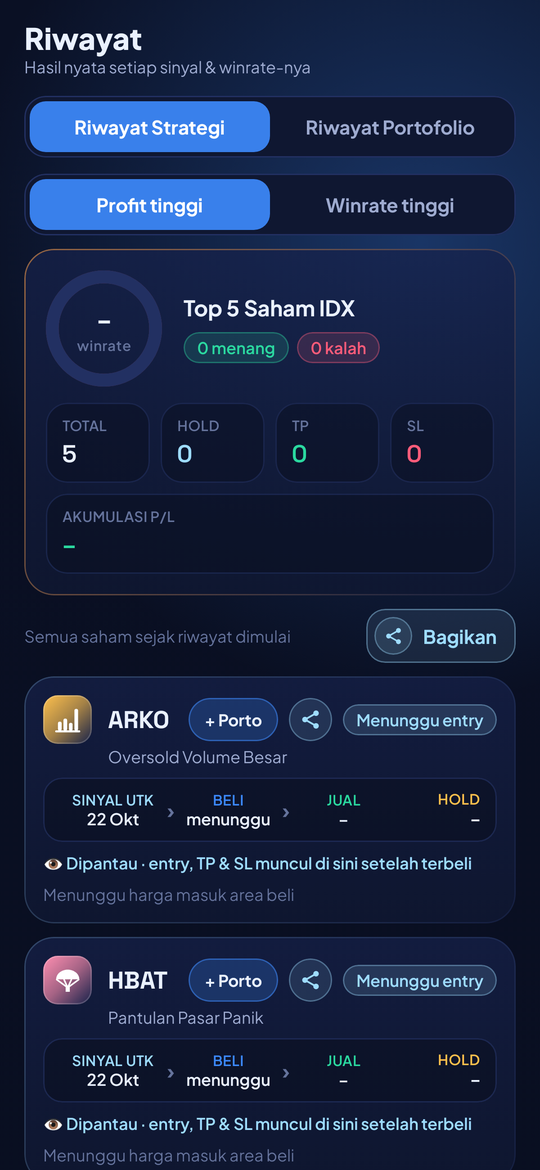
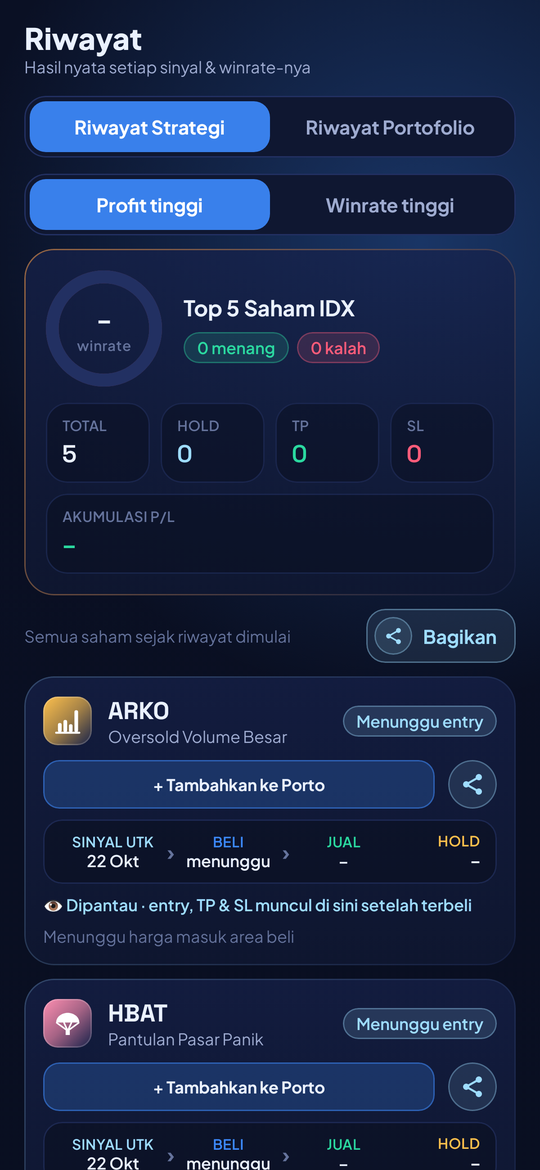
v2.2: rapikan kartu Riwayat, tombol Masukkan Porto di atas detail
Claude-Session: https://claude.ai/code/session_01PuKLHyoYSW1sPiRyMbgmbw

Changed region(s): [[0.0296, 0.5846, 0.9778, 1.0]]

diff --git a/app/src/main/java/com/lumisignal/idx/ui/screens/SignalUi.kt b/app/src/main/java/com/lumisignal/idx/ui/screens/SignalUi.kt
@@ -122,16 +122,30 @@ fun SignalRow(sig: Signal, onOpen: () -> Unit) {
     val shareCtx = androidx.compose.ui.platform.LocalContext.current
     val plan = sig.eval.plan
     GlassCard(Modifier.fillMaxWidth(), padding = 14.dp, onClick = onOpen) {
+        // Header: badge, ticker + strategy, status. Buttons get their own row so nothing is squeezed.
         Row(verticalAlignment = Alignment.CenterVertically) {
             val tag = sig.radar
             if (tag != null) RadarBadge(tag.icon, tag.color, tag.jenis, 36.dp) else StrategyBadge(sig.strategyId, 36.dp)
             Spacer(Modifier.width(12.dp))
             Column(Modifier.weight(1f)) {
-                Row(verticalAlignment = Alignment.CenterVertically) {
-                    Text(sig.symbol, style = NumberStyle.copy(fontSize = 18.sp, fontWeight = FontWeight.Bold), color = Lumi.Text)
-                    Spacer(Modifier.width(8.dp))
+                Text(sig.symbol, style = NumberStyle.copy(fontSize = 18.sp, fontWeight = FontWeight.Bold), color = Lumi.Text, maxLines = 1, softWrap = false)
+                Text(
+                    sig.radar?.name ?: Strategy.byId(sig.strategyId).title, style = MaterialTheme.typography.bodySmall, color = Lumi.TextDim,
+                    maxLines = 1, overflow = TextOverflow.Ellipsis,
+                )
+            }
+            Spacer(Modifier.width(8.dp))
+            Column(horizontalAlignment = Alignment.End) {
+                StatusBadge(sig.status)
+                val pnl = sig.pnlPct
+                if (pnl != null && sig.status != SignalStatus.CANCELLED) {
+                    Spacer(Modifier.height(4.dp))
+                    Text(Fmt.pct(pnl), style = NumberStyle.copy(fontSize = 14.sp), color = if (pnl >= 0) Lumi.Green else Lumi.Red)
                 }
             }
+        }
+        Spacer(Modifier.height(10.dp))
+        Row(Modifier.fillMaxWidth(), verticalAlignment = Alignment.CenterVertically, horizontalArrangement = Arrangement.End) {
             // Strategy history: add to the portfolio from the top of the card.
             if (sig.source == com.lumisignal.idx.data.SOURCE_STRATEGY) {
                 val items by com.lumisignal.idx.Graph.history.items.collectAsStateWithLifecycle()
@@ -145,31 +159,20 @@ fun SignalRow(sig: Signal, onOpen: () -> Unit) {
                 }
                 val c = if (inPorto) Lumi.Green else Lumi.Blue
                 Box(
-                    Modifier.height(32.dp).clip(RoundedCornerShape(16.dp)).background(c.copy(alpha = if (inPorto) 0.12f else 0.22f))
-                        .border(1.dp, c.copy(alpha = 0.5f), RoundedCornerShape(16.dp))
-                        .clickable { if (!inPorto) dialog = true else onOpen() }.padding(horizontal = 12.dp),
+                    Modifier.weight(1f).height(36.dp).clip(RoundedCornerShape(12.dp)).background(c.copy(alpha = if (inPorto) 0.12f else 0.22f))
+                        .border(1.dp, c.copy(alpha = 0.5f), RoundedCornerShape(12.dp))
+                        .clickable { if (!inPorto) dialog = true else onOpen() },
                     contentAlignment = Alignment.Center,
                 ) {
-                    Text(if (inPorto) "✓ Di Porto" else "+ Porto", style = MaterialTheme.typography.labelMedium.copy(fontWeight = FontWeight.Bold), color = if (inPorto) Lumi.Green else Lumi.Text)
+                    Text(
+                        if (inPorto) "✓ Sudah di Porto" else "+ Tambahkan ke Porto",
+                        style = MaterialTheme.typography.labelMedium.copy(fontWeight = FontWeight.Bold), color = if (inPorto) Lumi.Green else Lumi.Text, maxLines = 1,
+                    )
                 }
-                Spacer(Modifier.width(8.dp))
+                Spacer(Modifier.width(10.dp))
             }
-            ShareIcon({ com.lumisignal.idx.share.ShareCards.shareSignal(shareCtx, sig) }, 32.dp)
-            Spacer(Modifier.width(8.dp))
-            Column(horizontalAlignment = Alignment.End) {
-                StatusBadge(sig.status)
-                val pnl = sig.pnlPct
-                if (pnl != null && sig.status != SignalStatus.CANCELLED) {
-                    Spacer(Modifier.height(4.dp))
-                    Text(Fmt.pct(pnl), style = NumberStyle.copy(fontSize = 14.sp), color = if (pnl >= 0) Lumi.Green else Lumi.Red)
-                }
-            }
+            ShareIcon({ com.lumisignal.idx.share.ShareCards.shareSignal(shareCtx, sig) }, 36.dp)
         }
-        // Strategy name on its own line, so the buttons above never squeeze it.
-        Text(
-            sig.radar?.name ?: Strategy.byId(sig.strategyId).title, style = MaterialTheme.typography.bodySmall, color = Lumi.TextDim,
-            maxLines = 1, overflow = TextOverflow.Ellipsis, modifier = Modifier.padding(start = 48.dp, top = 2.dp),
-        )
         Spacer(Modifier.height(8.dp))
         TradeTimeline(
             signal = sig.refDate, buy = sig.entryDate, sell = sig.exitDate, hold = sig.holdDays,

diff --git a/app/src/main/java/com/lumisignal/idx/ui/screens/RadarPickScreen.kt b/app/src/main/java/com/lumisignal/idx/ui/screens/RadarPickScreen.kt
@@ -139,6 +139,13 @@ fun RadarPickScreen(tier: String, jenis: String, sid: Int, ticker: String, combi
                 }
             }
             Spacer(Modifier.height(12.dp))
+            // Portfolio action at the top.
+            if (porto == null) {
+                GradientButton("Masukkan Porto", { dialog = true }, Modifier.fillMaxWidth(), icon = Icons.Filled.Add)
+            } else {
+                GhostButton("Sudah di Porto · lihat posisi", { onOpenSignal(porto.id) }, Modifier.fillMaxWidth(), icon = Icons.Filled.CheckCircle, color = Lumi.Green)
+            }
+            Spacer(Modifier.height(12.dp))
 
             // Watchlist until bought: entry, TP and SL are shown once the strategy entry has filled.
             if (filledPlan != null && strat?.entryPrice != null) {
@@ -197,12 +204,6 @@ fun RadarPickScreen(tier: String, jenis: String, sid: Int, ticker: String, combi
             }
             Spacer(Modifier.height(12.dp))
 
-            if (porto == null) {
-                GradientButton("Masukkan Porto", { dialog = true }, Modifier.fillMaxWidth(), icon = Icons.Filled.Add)
-            } else {
-                GhostButton("Sudah di Porto · lihat posisi", { onOpenSignal(porto.id) }, Modifier.fillMaxWidth(), icon = Icons.Filled.CheckCircle, color = Lumi.Green)
-            }
-            Spacer(Modifier.height(10.dp))
             Text(
                 "Bukan rekomendasi investasi. Sinyal dihitung dari data closing; selalu pakai stop loss dan atur ukuran posisi.",
                 style = MaterialTheme.typography.bodySmall, color = Lumi.TextMuted,

diff --git a/app/src/main/java/com/lumisignal/idx/ui/screens/RadarScreen.kt b/app/src/main/java/com/lumisignal/idx/ui/screens/RadarScreen.kt
@@ -559,11 +559,7 @@ fun PickRow(d: RadarDay, tier: String, jenis: String, p: RadarPick, sid: Int, co
             Spacer(Modifier.width(10.dp))
             Column(Modifier.weight(1f)) {
                 Row(verticalAlignment = Alignment.CenterVertically) {
-                    Text(p.ticker, style = NumberStyle.copy(fontSize = 18.sp, fontWeight = FontWeight.Bold), color = Lumi.Text)
-                    if (inPorto) {
-                        Spacer(Modifier.width(6.dp))
-                        Pill("Porto", Lumi.Green)
-                    }
+                    Text(p.ticker, style = NumberStyle.copy(fontSize = 18.sp, fontWeight = FontWeight.Bold), color = Lumi.Text, maxLines = 1, softWrap = false)
                 }
                 val sub = if (combined) d.strategy(sid)?.name ?: p.name else p.name
                 if (sub.isNotBlank()) Text(sub, style = MaterialTheme.typography.bodySmall, color = Lumi.TextDim, maxLines = 1, overflow = TextOverflow.Ellipsis)

diff --git a/CHANGELOG.md b/CHANGELOG.md
@@ -25,7 +25,7 @@
 - **Audit harga tiap 1 menit selama jam bursa, juga saat aplikasi ditutup**, tanpa bunyi dan tanpa ikon di status bar. Audit mulai otomatis pukul 08.50 WIB dan berhenti sendiri setelah bursa tutup
 - Notifikasi hanya untuk hal penting: saham pantauan baru (17.00), saham terbeli (entry, TP & SL), kena TP, dan kena SL
 - **Rekap harian setelah pasar tutup**: berapa saham hold, kena TP, kena SL, dan akumulasi P/L untuk Riwayat Strategi dan Porto
-- Tombol **Porto** kini ada di bagian atas: di kartu saham Beranda, di kartu Riwayat Strategi, di halaman detail, dan di Cek Saham (bersama tombol Bagikan)
+- Tombol **Porto** kini ada di bagian atas: di kartu saham Beranda, di kartu Riwayat Strategi (baris tombol sendiri, kode saham tidak lagi terpotong), di halaman detail saham dari Beranda maupun Riwayat, dan di Cek Saham (bersama tombol Bagikan)
 - **Bagikan hasil Cek Saham** sebagai gambar: harga, area beli, TP, SL, 2 support & 2 resistance, dan chart 60 sesi
 - Laporan **Riwayat** dan **Backtest** yang dibagikan kini punya kolom **ENTRY** dan kotak **HOLD** (berapa saham masih dipegang)
 - Gambar saham pantauan yang dibagikan kini fokus pada tanggal beli, kode saham, dan alasan masuk radar
@@ -49,7 +49,7 @@
 - **Price audit every minute during market hours, even with the app closed**, silent and without a status-bar icon. It starts at 08:50 WIB and stops by itself after the close
 - Notifications only for what matters: new watchlist (17:00), bought (entry, TP & SL), TP hit, and SL hit
 - **Daily recap after the close**: holds, TP, SL, and cumulative P/L for Strategy History and Portfolio
-- The **Portfolio** button is now at the top: on Home stock cards, Strategy History cards, the detail page, and Stock check (next to Share)
+- The **Portfolio** button is now at the top: on Home stock cards, Strategy History cards (own button row, tickers no longer cut), the stock detail page from Home and History, and Stock check (next to Share)
 - **Share a stock check** as an image: price, buy area, TP, SL, 2 supports & 2 resistances, and a 60-session chart
 - Shared **History** and **Backtest** reports now have an **ENTRY** column and a **HOLD** tile (stocks still held)
 - Shared watchlist images now focus on the buy date, ticker, and why the stock made the radar

diff --git a/release-notes/v2.2.md b/release-notes/v2.2.md
@@ -21,7 +21,7 @@
 - **Audit harga tiap 1 menit selama jam bursa, juga saat aplikasi ditutup**, tanpa bunyi dan tanpa ikon di status bar. Audit mulai otomatis pukul 08.50 WIB dan berhenti sendiri setelah bursa tutup
 - Notifikasi hanya untuk hal penting: saham pantauan baru (17.00), saham terbeli (entry, TP & SL), kena TP, dan kena SL
 - **Rekap harian setelah pasar tutup**: berapa saham hold, kena TP, kena SL, dan akumulasi P/L untuk Riwayat Strategi dan Porto
-- Tombol **Porto** kini ada di bagian atas: di kartu saham Beranda, di kartu Riwayat Strategi, di halaman detail, dan di Cek Saham (bersama tombol Bagikan)
+- Tombol **Porto** kini ada di bagian atas: di kartu saham Beranda, di kartu Riwayat Strategi (baris tombol sendiri, kode saham tidak lagi terpotong), di halaman detail saham dari Beranda maupun Riwayat, dan di Cek Saham (bersama tombol Bagikan)
 - **Bagikan hasil Cek Saham** sebagai gambar: harga, area beli, TP, SL, 2 support & 2 resistance, dan chart 60 sesi
 - Laporan **Riwayat** dan **Backtest** yang dibagikan kini punya kolom **ENTRY** dan kotak **HOLD** (berapa saham masih dipegang)
 - Gambar saham pantauan yang dibagikan kini fokus pada tanggal beli, kode saham, dan alasan masuk radar
@@ -47,7 +47,7 @@
 - **Price audit every minute during market hours, even with the app closed**, silent and without a status-bar icon. It starts at 08:50 WIB and stops by itself after the close
 - Notifications only for what matters: new watchlist (17:00), bought (entry, TP & SL), TP hit, and SL hit
 - **Daily recap after the close**: holds, TP, SL, and cumulative P/L for Strategy History and Portfolio
-- The **Portfolio** button is now at the top: on Home stock cards, Strategy History cards, the detail page, and Stock check (next to Share)
+- The **Portfolio** button is now at the top: on Home stock cards, Strategy History cards (own button row, tickers no longer cut), the stock detail page from Home and History, and Stock check (next to Share)
 - **Share a stock check** as an image: price, buy area, TP, SL, 2 supports & 2 resistances, and a 60-session chart
 - Shared **History** and **Backtest** reports now have an **ENTRY** column and a **HOLD** tile (stocks still held)
 - Shared watchlist images now focus on the buy date, ticker, and why the stock made the radar
